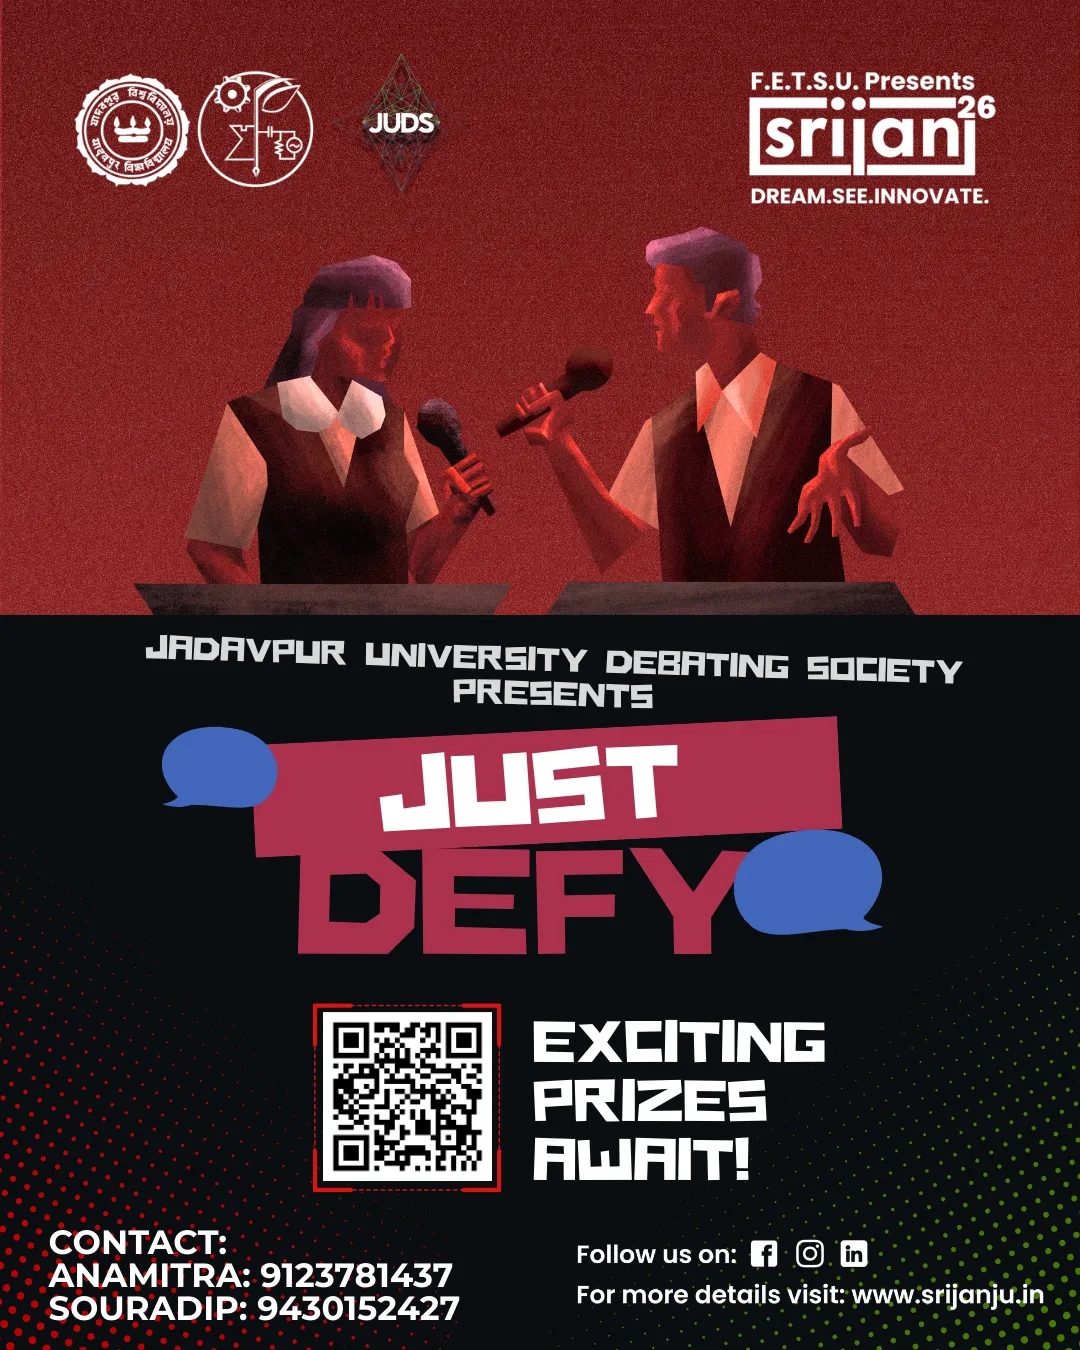
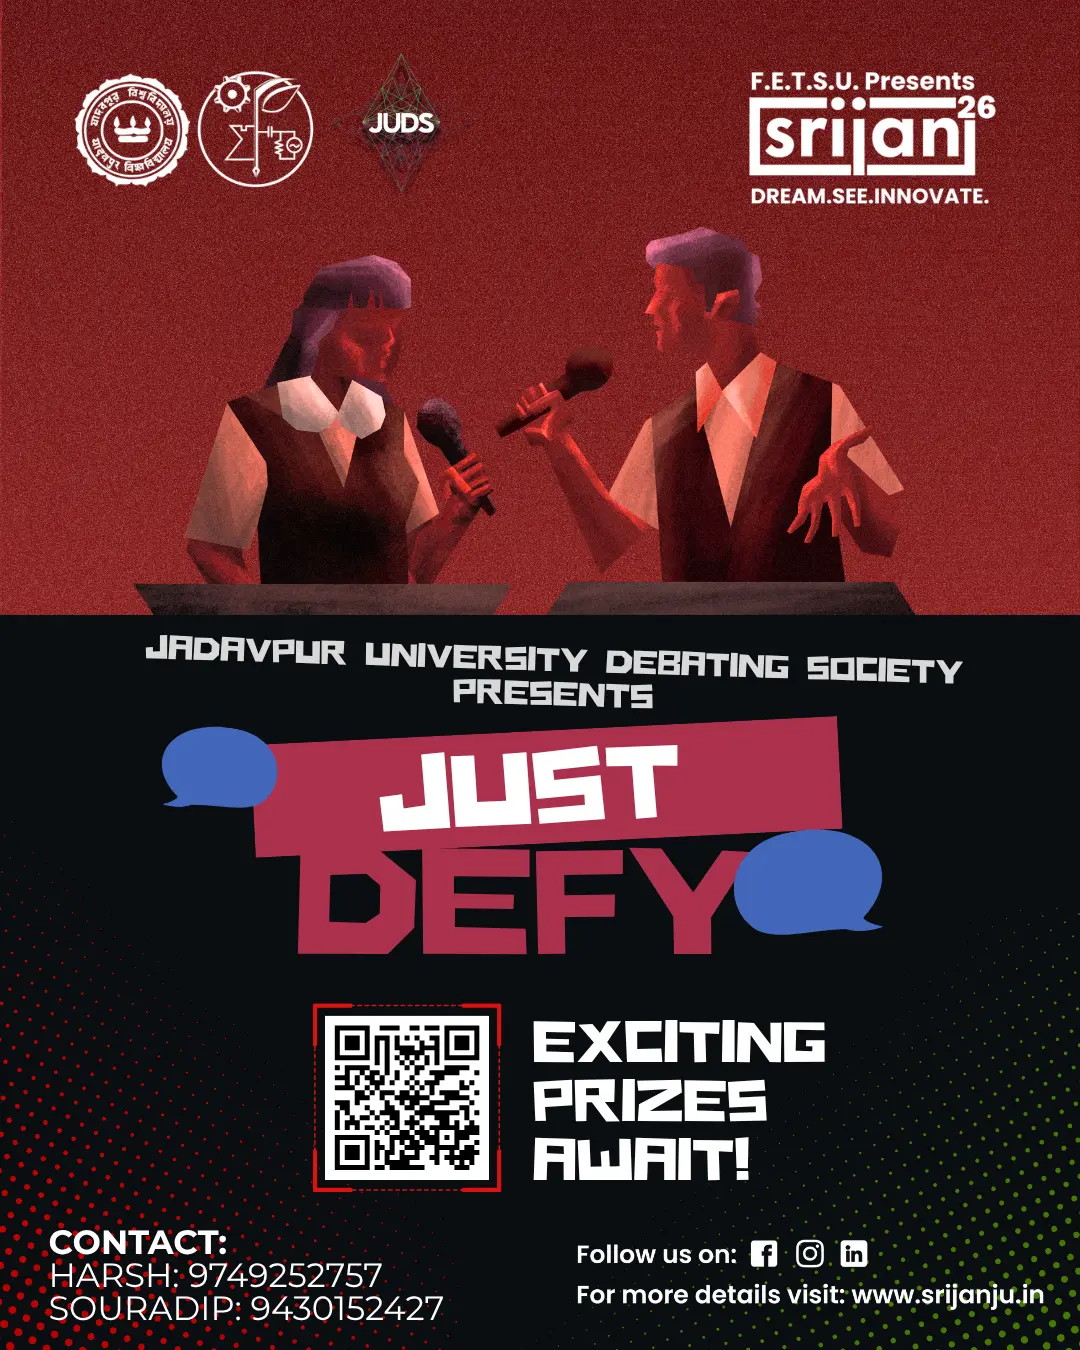
feat: update contacts and add links for some events

Changed region(s): [[0.0306, 0.9333, 0.4278, 0.9956], [0.3056, 0.7467, 0.4583, 0.8711]]

diff --git a/prisma/seed-events.ts b/prisma/seed-events.ts
@@ -2,61 +2,61 @@
 
 // const prisma = new PrismaClient();
 
-// // const EVENTS_TO_SEED = [
-//     // { slug: "lotr", name: "Lord of The Ring : Season 3", minMembers: 3, maxMembers: 5 },
-//     // { slug: "traffiq", name: "TraffIQ", minMembers: 2, maxMembers: 5 },
-//     // { slug: "mathemagician", name: "Math-E-Magician", minMembers: 2, maxMembers: 2 },
-//     // { slug: "epoch", name: "Epochalypse", minMembers: 3, maxMembers: 3 },
-//     // { slug: "h42", name: "H42", minMembers: 1, maxMembers: 3 },
-//     // { slug: "sherlocked", name: "Sherlocked", minMembers: 3, maxMembers: 3 },
-//     // { slug: "cypher3331", name: "Cypher 3331", minMembers: 3, maxMembers: 3 },
-//     // { slug: "ss3", name: "Snap Syntax 3.0", minMembers: 2, maxMembers: 4 },
-//     // { slug: "indx", name: "INDUSTRIX", minMembers: 4, maxMembers: 4 },
-//     // { slug: "sv1", name: "System Vanguard", minMembers: 3, maxMembers: 3 },
-//     // { slug: "death_race", name: "Death Race", minMembers: 1, maxMembers: 4 },
-//     // { slug: "CC", name: "CONTROL-CRAFT", minMembers: 4, maxMembers: 4 },
-//     // { slug: "RR", name: "ROPE RUNNER", minMembers: 4, maxMembers: 4 },
-//     // { slug: "btg26", name: "Bridge The Gap", minMembers: 2, maxMembers: 4 },
-//     // { slug: "caseomania", name: "CASE O MANIA", minMembers: 2, maxMembers: 3 },
-//     // { slug: "ptb", name: "Pass the Baton", minMembers: 3, maxMembers: 3 },
-//     // { slug: "XSTREAM", name: "XSTERAM", minMembers: 1, maxMembers: 4 },
-//     // { slug: "h4g", name: "HackForge", minMembers: 4, maxMembers: 4 },
-//     // { slug: "uncode", name: "Uncode", minMembers: 1, maxMembers: 2 },
-//     // { slug: "arena-valorant", name: "NSG ARENA x VALORANT", minMembers: 5, maxMembers: 5 },
-//     // { slug: "arena-eafc", name: "NSG ARENA x EAFC", minMembers: 1, maxMembers: 1 },
-//     // { slug: "openaimer", name: "OpenAImer", minMembers: 1, maxMembers: 4 },
-//     // { slug: "arena-bgmi", name: "NSG ARENA x BGMI", minMembers: 4, maxMembers: 4 },
-//     // { slug: "cr", name: "CLASH ROYALE", minMembers: 1, maxMembers: 1 },
-//     // { slug: "uec-valorant", name: "NSG UEC x VALORANT", minMembers: 5, maxMembers: 5 },
-//     // { slug: "uec-bgmi", name: "NSG UEC x BGMI", minMembers: 4, maxMembers: 4 },
-//     // { slug: "uec-eafc", name: "NSG UEC x EAFC", minMembers: 1, maxMembers: 1 },
-//     // { slug: "uec-wtec", name: "NSG UEC x WTEC", minMembers: 1, maxMembers: 1 },
-//     // { slug: "vrexp", name: "VR EXPERIENCE ZONE", minMembers: 1, maxMembers: 1 },
-//     // { slug: "thunderbolts_voltedged", name: "THUNDERBOLTS VOLTEDGED", minMembers: 3, maxMembers: 4 },
-//     // { slug: "datadrift26", name: "Data Drift", minMembers: 1, maxMembers: 2 },
-//     // { slug: "ace-the-case", name: "Ace The Case", minMembers: 2, maxMembers: 4 },
-//     // { slug: "biznez-plan", name: "Biznez Plan", minMembers: 2, maxMembers: 4 },
-//     // { slug: "stratedgex", name: "StratEdgeX", minMembers: 1, maxMembers: 4 },
-//     // { slug: "pkv", name: "Pack-o-vation", minMembers: 2, maxMembers: 4 },
-//     // { slug: "sks", name: "SKYSPRINT", minMembers: 2, maxMembers: 3 },
-//     // { slug: "clo", name: "Climb On", minMembers: 1, maxMembers: 1 },
-//     // { slug: "jal", name: "Jal Astra", minMembers: 2, maxMembers: 3 },
-//     // { slug: "hcg", name: "Homecoming", minMembers: 4, maxMembers: 5 },
-//     // { slug: "rbs", name: "Robosoccer", minMembers: 3, maxMembers: 5 },
-//     // { slug: "capitalclash", name: "CAPITAL CLASH", minMembers: 3, maxMembers: 3 },
-//     // { slug: "er", name: "Escape Room", minMembers: 3, maxMembers: 4 },
-//     // { slug: "h2h", name: "Highway to Hell", minMembers: 3, maxMembers: 5 },
-//     // { slug: "justdefy", name: "Just Defy", minMembers: 1, maxMembers: 1 },
-//     // { slug: "btm", name: "Beat the Market", minMembers: 1, maxMembers: 1 },
-//     // { slug: "cc", name: "Cold Case", minMembers: 1, maxMembers: 1 },
-//     // { slug: "iotbw", name: "IoT BIDWARS", minMembers: 2, maxMembers: 3 },
-//     // { slug: "djk", name: "DANK JUNK", minMembers: 1, maxMembers: 1 },
-// //   { slug: "rat", name: "Reel-a-tion", minMembers: 2, maxMembers: 4 },
-// //   { slug: "pixellense", name: "Pixellense", minMembers: 1, maxMembers: 1 },
-// //   { slug: "qtp", name: "Quizotopia", minMembers: 3, maxMembers: 3 },
-// //   { slug: "efootball", name: "eFootball", minMembers: 1, maxMembers: 1 },
-// //   { slug: "celestia", name: "Celestia", minMembers: 1, maxMembers: 1 },
-// // ];
+// const EVENTS_TO_SEED = [
+//     { slug: "lotr", name: "Lord of The Ring : Season 3", minMembers: 3, maxMembers: 5 },
+//     { slug: "traffiq", name: "TraffIQ", minMembers: 2, maxMembers: 5 },
+//     { slug: "mathemagician", name: "Math-E-Magician", minMembers: 2, maxMembers: 2 },
+//     { slug: "epoch", name: "Epochalypse", minMembers: 3, maxMembers: 3 },
+//     { slug: "h42", name: "H42", minMembers: 1, maxMembers: 3 },
+//     { slug: "sherlocked", name: "Sherlocked", minMembers: 3, maxMembers: 3 },
+//     { slug: "cypher3331", name: "Cypher 3331", minMembers: 3, maxMembers: 3 },
+//     { slug: "ss3", name: "Snap Syntax 3.0", minMembers: 2, maxMembers: 4 },
+//     { slug: "indx", name: "INDUSTRIX", minMembers: 4, maxMembers: 4 },
+//     { slug: "sv1", name: "System Vanguard", minMembers: 3, maxMembers: 3 },
+//     { slug: "death_race", name: "Death Race", minMembers: 1, maxMembers: 4 },
+//     { slug: "CC", name: "CONTROL-CRAFT", minMembers: 4, maxMembers: 4 },
+//     { slug: "RR", name: "ROPE RUNNER", minMembers: 4, maxMembers: 4 },
+//     { slug: "btg26", name: "Bridge The Gap", minMembers: 2, maxMembers: 4 },
+//     { slug: "caseomania", name: "CASE O MANIA", minMembers: 2, maxMembers: 3 },
+//     { slug: "ptb", name: "Pass the Baton", minMembers: 3, maxMembers: 3 },
+//     { slug: "XSTREAM", name: "XSTERAM", minMembers: 1, maxMembers: 4 },
+//     { slug: "h4g", name: "HackForge", minMembers: 4, maxMembers: 4 },
+//     { slug: "uncode", name: "Uncode", minMembers: 1, maxMembers: 2 },
+//     { slug: "arena-valorant", name: "NSG ARENA x VALORANT", minMembers: 5, maxMembers: 5 },
+//     { slug: "arena-eafc", name: "NSG ARENA x EAFC", minMembers: 1, maxMembers: 1 },
+//     { slug: "openaimer", name: "OpenAImer", minMembers: 1, maxMembers: 4 },
+//     { slug: "arena-bgmi", name: "NSG ARENA x BGMI", minMembers: 4, maxMembers: 4 },
+//     { slug: "cr", name: "CLASH ROYALE", minMembers: 1, maxMembers: 1 },
+//     { slug: "uec-valorant", name: "NSG UEC x VALORANT", minMembers: 5, maxMembers: 5 },
+//     { slug: "uec-bgmi", name: "NSG UEC x BGMI", minMembers: 4, maxMembers: 4 },
+//     { slug: "uec-eafc", name: "NSG UEC x EAFC", minMembers: 1, maxMembers: 1 },
+//     { slug: "uec-wtec", name: "NSG UEC x WTEC", minMembers: 1, maxMembers: 1 },
+//     { slug: "vrexp", name: "VR EXPERIENCE ZONE", minMembers: 1, maxMembers: 1 },
+//     { slug: "thunderbolts_voltedged", name: "THUNDERBOLTS VOLTEDGED", minMembers: 3, maxMembers: 4 },
+//     { slug: "datadrift26", name: "Data Drift", minMembers: 1, maxMembers: 2 },
+//     { slug: "ace-the-case", name: "Ace The Case", minMembers: 2, maxMembers: 4 },
+//     { slug: "biznez-plan", name: "Biznez Plan", minMembers: 2, maxMembers: 4 },
+//     { slug: "stratedgex", name: "StratEdgeX", minMembers: 1, maxMembers: 4 },
+//     { slug: "pkv", name: "Pack-o-vation", minMembers: 2, maxMembers: 4 },
+//     { slug: "sks", name: "SKYSPRINT", minMembers: 2, maxMembers: 3 },
+//     { slug: "clo", name: "Climb On", minMembers: 1, maxMembers: 1 },
+//     { slug: "jal", name: "Jal Astra", minMembers: 2, maxMembers: 3 },
+//     { slug: "hcg", name: "Homecoming", minMembers: 4, maxMembers: 5 },
+//     { slug: "rbs", name: "Robosoccer", minMembers: 3, maxMembers: 5 },
+//     { slug: "capitalclash", name: "CAPITAL CLASH", minMembers: 3, maxMembers: 3 },
+//     { slug: "er", name: "Escape Room", minMembers: 3, maxMembers: 4 },
+//     { slug: "h2h", name: "Highway to Hell", minMembers: 3, maxMembers: 5 },
+//     { slug: "justdefy", name: "Just Defy", minMembers: 1, maxMembers: 1 },
+//     { slug: "btm", name: "Beat the Market", minMembers: 1, maxMembers: 1 },
+//     { slug: "cc", name: "Cold Case", minMembers: 1, maxMembers: 1 },
+//     { slug: "iotbw", name: "IoT BIDWARS", minMembers: 2, maxMembers: 3 },
+//     { slug: "djk", name: "DANK JUNK", minMembers: 1, maxMembers: 1 },
+//   { slug: "rat", name: "Reel-a-tion", minMembers: 2, maxMembers: 4 },
+//   { slug: "pixellense", name: "Pixellense", minMembers: 1, maxMembers: 1 },
+//   { slug: "qtp", name: "Quizotopia", minMembers: 3, maxMembers: 3 },
+//   { slug: "efootball", name: "eFootball", minMembers: 1, maxMembers: 1 },
+//   { slug: "celestia", name: "Celestia", minMembers: 1, maxMembers: 1 },
+// ];
 
 // async function main() {
 //     console.log("Seeding Events...");

diff --git a/components/EventRegistration/Registered.tsx b/components/EventRegistration/Registered.tsx
@@ -7,6 +7,10 @@ import MemberControls from "./MemberControls";
 import LeaveTeam from "./LeaveTeam";
 import Balls from "../Balls";
 import PendingMemberControls from "./PendingMemberControls";
+import { EVENTS_DATA } from "@/data/eventsList";
+import Link from "next/link";
+import Image from "next/image";
+import WhatsappIcon from "../ui/whatsapp-icon";
 
 function Registered({
     user,
@@ -19,6 +23,7 @@ function Registered({
 }) {
     if (!team) return <NotRegistered user={user} event={event} />;
     const isTeamLead = team.leader === user.id;
+    const eventData = EVENTS_DATA.find((data) => data.slug === event.slug);
 
     let status: string;
     if (team.members.length === event.maxMembers) status = "Team full";
@@ -28,14 +33,27 @@ function Registered({
     return (
         <div className="flex flex-col items-center justify-center gap-6 h-full min-h-[80vh] py-6">
             <Balls />
-            <h1 className="text-4xl sm:text-5xl font-semibold font-elnath text-yellow mb-8 text-center">
+            <h1 className="text-4xl sm:text-5xl font-semibold font-elnath text-yellow text-center">
                 {event.name} Registration
             </h1>
+            {/* Unstop Link if needed */}
+            {eventData && eventData.unstopLink && (
+                <div className="mb-4 flex flex-col items-center w-full gap-y-3">
+                    <p className="text-sm sm:text-base w-4/5 text-center">Prelims will be held on Unstop, so registration on the platform is required.</p>
+                    <Link href={eventData.unstopLink} target="_blank">
+                        <Image
+                            src={"/Unstop-Logo-White-Small.png"}
+                            width={85}
+                            height={50}
+                            className="bg-blue-900 p-2 rounded-sm hover:bg-blue-800 transition-colors duration-200"
+                            alt="Unstop Logo"
+                        />
+                    </Link>
+                </div>
+            )}
             <div className="flex flex-col sm:flex-row w-full justify-around gap-y-12">
                 <div className="flex sm:w-2/3 flex-col items-center">
-                    <h4 className="text-lg font-bold">
-                        Team: {team?.name}
-                    </h4>
+                    <h4 className="text-lg font-bold">Team: {team?.name}</h4>
                     <h6 className="mb-2 text-yellow">Members</h6>
                     <div className="hidden sm:flex w-full sm:w-3/4 justify-between rounded-t-sm border-b border-gray-300/30 bg-gray-600/30 px-4 py-2 transition-colors duration-300">
                         <p>Name</p>
@@ -62,9 +80,11 @@ function Registered({
                             )}
                         </div>
                     ))}
-                    {(isTeamLead && team.pendingMembers.length !== 0) && (
+                    {isTeamLead && team.pendingMembers.length !== 0 && (
                         <>
-                            <h6 className="my-2 text-yellow">Pending Members</h6>
+                            <h6 className="my-2 text-yellow">
+                                Pending Members
+                            </h6>
                             <div className="hidden sm:flex w-full sm:w-3/4 justify-between rounded-t-sm border-b border-gray-300/30 bg-gray-600/30 px-4 py-2 transition-colors duration-300">
                                 <p>Name</p>
                                 <p>Email</p>
@@ -77,15 +97,17 @@ function Registered({
                                     <p className="sm:hidden">Name </p>
                                     <p>{member.name}</p>
                                     <p className="sm:hidden">Email</p>
-                                    <p className="justify-self-end">{member.email}</p>
+                                    <p className="justify-self-end">
+                                        {member.email}
+                                    </p>
                                     {isTeamLead && (
-                                            <PendingMemberControls
-                                                memberId={member.id!}
-                                                memberName={member.name}
-                                                teamId={team.id}
-                                                event={event}
-                                            />
-                                        )}
+                                        <PendingMemberControls
+                                            memberId={member.id!}
+                                            memberName={member.name}
+                                            teamId={team.id}
+                                            event={event}
+                                        />
+                                    )}
                                 </div>
                             ))}
                         </>
@@ -97,11 +119,25 @@ function Registered({
                     >
                         Status: {status}
                     </h3>
-                    {event.minMembers === event.maxMembers ? 
-                    (<p>Allowed Team Size: {event.minMembers} member(s)</p>) :
-                    (<p>Allowed Team Size: {event.minMembers} - {event.maxMembers} members</p>)
-                    }
+                    {event.minMembers === event.maxMembers ? (
+                        <p>Allowed Team Size: {event.minMembers} member(s)</p>
+                    ) : (
+                        <p>
+                            Allowed Team Size: {event.minMembers} -{" "}
+                            {event.maxMembers} members
+                        </p>
+                    )}
                     <p>Current Team Size: {team?.members.length}</p>
+                    {eventData && eventData.whatsappLink && (
+                        <Link
+                            href={eventData.whatsappLink}
+                            target="_blank"
+                            className="bg-green-600 hover:bg-green-500 transition-colors duration-200 text-white py-1 px-3 rounded-xs flex items-center gap-2"
+                        >
+                            <WhatsappIcon />
+                            Whatsapp Group
+                        </Link>
+                    )}
                     {isTeamLead ? (
                         <TeamControls team={team} event={event} />
                     ) : (

diff --git a/data/eventsList.ts b/data/eventsList.ts
@@ -130,6 +130,7 @@ const CODING_EVENTS: Event[] = [
     link: "/register/sherlocked",
     driveLink:
       "https://drive.google.com/file/d/1F4J8PDFqJRPXe4cvHb8S1DwjTTqTDvk0/view?usp=sharing",
+    whatsappLink: "https://chat.whatsapp.com/HvCvUCw1yrfA4IHLeDrnrV",
     coordinators: [
       { name: "Subhayan Roy Chowdhury", contact: "6289955350" },
       { name: "Kaji Manirul Islam", contact: "7865060015" },
@@ -184,6 +185,7 @@ const CODING_EVENTS: Event[] = [
     link: "/register/ss3",
     driveLink:
       "https://drive.google.com/file/d/1Py4J3qnGrU0SfUNiyPmlf8bXmlRw89vh/view?usp=drive_link",
+    unstopLink: "https://unstop.com/competitions/snap-syntax-30-srijan-2026-jadavpur-university-kolkata-1658149",
     coordinators: [
       { name: "Ayan Ghosh", contact: "8167002490" },
       { name: "Swapnaneel Ray", contact: "7980515334" },
@@ -232,8 +234,8 @@ const CODING_EVENTS: Event[] = [
     driveLink:
       "https://drive.google.com/file/d/110Ka-uixoGU94gnxm5OHZMCIKBlF6ljs/view?usp=sharing",
     coordinators: [
-      { name: "Tanish Majumdar", contact: "7028912305" },
       { name: "Somnath Chattaraj", contact: "9382054930" },
+      { name: "Rishav Chowdhary", contact: "8276991374" },
       { name: "Anirban Biswas", contact: "7718736188" },
     ],
     status: "Open",
@@ -1583,7 +1585,7 @@ const MISC_EVENTS: Event[] = [
     tags: ["Debate", "Public Speaking"],
     status: "Open",
     coordinators: [
-      { name: "Anamitra Roy", contact: "9123781437" },
+      { name: "Harsh Verma", contact: "9749252757" },
       { name: "Souradip Raj Bose", contact: "9430152427" },
     ],
   },

diff --git a/components/ui/whatsapp-icon.tsx b/components/ui/whatsapp-icon.tsx
@@ -1,0 +1,17 @@
+import React from "react";
+
+function WhatsappIcon() {
+    return (
+        <svg
+            xmlns="http://www.w3.org/2000/svg"
+            width="16"
+            height="16"
+            fill="currentColor"
+            viewBox="0 0 16 16"
+        >
+            <path d="M13.601 2.326A7.85 7.85 0 0 0 7.994 0C3.627 0 .068 3.558.064 7.926c0 1.399.366 2.76 1.057 3.965L0 16l4.204-1.102a7.9 7.9 0 0 0 3.79.965h.004c4.368 0 7.926-3.558 7.93-7.93A7.9 7.9 0 0 0 13.6 2.326zM7.994 14.521a6.6 6.6 0 0 1-3.356-.92l-.24-.144-2.494.654.666-2.433-.156-.251a6.56 6.56 0 0 1-1.007-3.505c0-3.626 2.957-6.584 6.591-6.584a6.56 6.56 0 0 1 4.66 1.931 6.56 6.56 0 0 1 1.928 4.66c-.004 3.639-2.961 6.592-6.592 6.592m3.615-4.934c-.197-.099-1.17-.578-1.353-.646-.182-.065-.315-.099-.445.099-.133.197-.513.646-.627.775-.114.133-.232.148-.43.05-.197-.1-.836-.308-1.592-.985-.59-.525-.985-1.175-1.103-1.372-.114-.198-.011-.304.088-.403.087-.088.197-.232.296-.346.1-.114.133-.198.198-.33.065-.134.034-.248-.015-.347-.05-.099-.445-1.076-.612-1.47-.16-.389-.323-.335-.445-.34-.114-.007-.247-.007-.38-.007a.73.73 0 0 0-.529.247c-.182.198-.691.677-.691 1.654s.71 1.916.81 2.049c.098.133 1.394 2.132 3.383 2.992.47.205.84.326 1.129.418.475.152.904.129 1.246.08.38-.058 1.171-.48 1.338-.943.164-.464.164-.86.114-.943-.049-.084-.182-.133-.38-.232" />
+        </svg>
+    );
+}
+
+export default WhatsappIcon;

diff --git a/app/(auth)/reset-password/page.tsx b/app/(auth)/reset-password/page.tsx
@@ -107,7 +107,7 @@ function ResetPassword() {
         <div className="flex flex-col items-center justify-center gap-8 h-full min-h-[80vh]">
             <Balls />
             <h1 className="text-5xl font-semibold font-elnath text-yellow text-center">Reset your Password</h1>
-            <div className="flex flex-col items-center gap-2 relative w-full sm:w-1/3 2xl:w-1/4">
+            <div className="flex flex-col items-center gap-2 relative w-9/10 sm:w-1/3 2xl:w-1/4">
                 <div className="absolute top-1/2 -right-10 -translate-y-1/2">
                     <Tooltip message="Password must be at least 8 characters long and must contain at least 1 lowercase letter, 1 uppercase letter, 1 number and 1 special character">
                         <p className="rounded-full bg-gray-300/40 px-2.5 py-1 text-xs">

diff --git a/app/(auth)/signup/page.tsx b/app/(auth)/signup/page.tsx
@@ -128,7 +128,7 @@ function SignUpForm() {
             <h1 className="text-5xl font-semibold font-elnath text-yellow">
                 Sign Up
             </h1>
-            <div className="flex flex-col items-center gap-4 w-full">
+            <div className="flex flex-col items-center gap-4 w-9/10 sm:w-full">
                 <div className="flex flex-col items-center gap-2 w-full">
                     <input
                         type="text"

diff --git a/services/EventsService.ts b/services/EventsService.ts
@@ -116,6 +116,7 @@ const createTeam = withAuth(
     ) => {
         try {
             if (!event) return { ok: false, message: "Invalid event" };
+            if(!teamName) return {ok: false, message: "Team Name cannot be empty"};
             if (sessionUserId !== user.id)
                 throw new Error("Invalid session - id mismatch");
             const existingTeam = await prisma.team.findFirst({

diff --git a/components/EventRegistration/NotRegistered.tsx b/components/EventRegistration/NotRegistered.tsx
@@ -36,6 +36,10 @@ function NotRegistered({ user, event }: { user: SessionUser; event: Event }) {
     };
 
     const handleCreateTeam = (e: React.FormEvent) => {
+        if(!teamName){
+            toast.error("Team Name cannot be empty");
+            return;
+        }
         e.preventDefault();
         setLoading(true);
         createTeam(event, user, teamName)

diff --git a/components/Merchandise/Contact.tsx b/components/Merchandise/Contact.tsx
@@ -6,9 +6,9 @@ type ContactPerson = {
 
 const contacts: ContactPerson[] = [
   {
-    name: "Ahnik Purkait",
+    name: "Harsh Verma",
     position: "Jadavpur Campus",
-    phone: "+91 87770 98463",
+    phone: "+91 97492 52757",
   },
   {
     name: "Rahul Sk.",

diff --git a/components/events/types/events.ts b/components/events/types/events.ts
@@ -52,6 +52,10 @@ export interface Event {
   driveLink?: string;
   pdfLink?: string;
   coordinators: Coordinator[];
+  
+  // post registration links
+  unstopLink?: string;
+  whatsappLink?: string;
 
   // --- State ---
   status: EventStatus;
